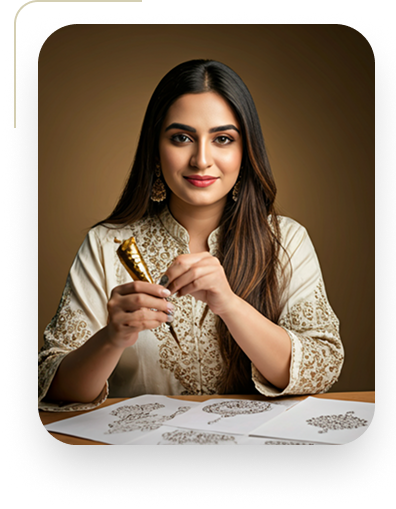
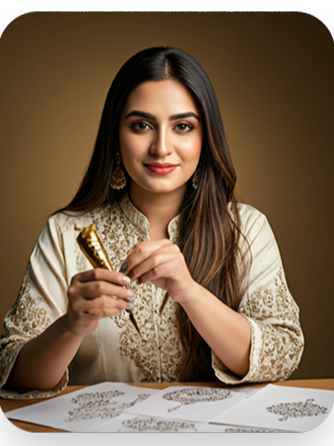
Responsive website update

diff --git a/index.html b/index.html
@@ -39,7 +39,7 @@
       top:0;
       width:100%;
       z-index:1000;
-      background:#faf7ef;
+      background:#c39518;
       padding:18px 24px;
       display:flex;
       justify-content:space-between;
@@ -65,9 +65,9 @@
       top:85px;
       left:20px;
       right:20px;
-      background:rgba(166,121,39,0.88);
+      background:rgba(153, 113, 39, 0.88);
       backdrop-filter:blur(5px);
-      padding:35px 25px;
+      padding:35px ;
       border-radius:18px;
       z-index:999;
       display:none;
@@ -78,7 +78,7 @@
       color:white;
       font-size:22px;
       font-weight:600;
-      padding:15px 0;
+      padding:14px;
       border-bottom:2px solid rgba(255,255,255,0.5);
     }
 
@@ -90,6 +90,7 @@
       color:white;
       font-size:30px;
       text-align:right;
+      margin-right: 10px;
       margin-bottom:10px;
       cursor:pointer;
     }
@@ -212,7 +213,7 @@
       padding:20px 10px;
       border-radius:20px;
       text-align:center;
-      box-shadow:0 5px 20px rgba(0,0,0,0.04);
+      box-shadow:0 4px 15px rgba(0,0,0,0.04);
     }
 
     .stat-box h3{
@@ -291,6 +292,7 @@
     object-fit:cover;
     border-radius:25px;
     transition:0.3s ease;
+    box-shadow: #1e1e1e;
 }
 
 .gallery1 img:hover{